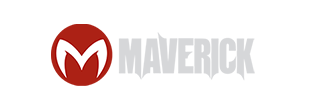
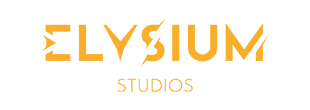
221026 psd

Changed region(s): [[0.1161, 0.1636, 0.871, 0.8455]]

diff --git a/src/components/pages/CSCenterPage.jsx b/src/components/pages/CSCenterPage.jsx
@@ -40,7 +40,7 @@ export default function Test({ isAuthenticated, setAuthenticated }) {
 
     const tabsArray = [
         { text: "문의하기", icon: Icon1, activeIcon: Icon1Active, id: 0, path: "/cscenter/all/contact/all", hasSameParent: true, width: '5rem' },
-        { text: "공지사항", icon: Icon2, activeIcon: Icon2Active, id: 1, path: "/cscenter/all/announcement", width: '5.625rem', marginLeft: '0.2rem' },
+        { text: "공지사항", icon: Icon2, activeIcon: Icon2Active, id: 1, path: "/cscenter/all/announcement", hasSameParent: true, width: '5.625rem', marginLeft: '0.2rem' },
         { text: "자주묻는질문", icon: Icon3, activeIcon: Icon3Active, id: 2, path: "/cscenter/all/faq", hasSameParent: true, width: '5.375rem', marginLeft: '0.2rem' },
         { text: "계좌문의", icon: Icon4, activeIcon: Icon4Active, id: 3, path: "#", width: '5.1875rem', marginLeft: '0.1rem' },
         { text: "베팅규정", icon: Icon5, activeIcon: Icon5Active, id: 4, path: "/cscenter/all/policy/sportsgame/soccer", hasSameParent: true, width: '4.875rem', marginLeft: '0.1rem' },
@@ -147,7 +147,7 @@ export default function Test({ isAuthenticated, setAuthenticated }) {
                                         <HomePageTopBanner pageTitle='고객센터' toPath='/cscenter' />
                                         <div id='container-nav'>
 
-                                            <HorizontalMenu1 withSmallMarginTop={true} itemsArray={tabsArray} setSelectedTab={setSelectedTab} setSelectedSubTab={setSelectedSubTab} />
+                                            <HorizontalMenu1 key={1} withSmallMarginTop={true} itemsArray={tabsArray} setSelectedTab={setSelectedTab} setSelectedSubTab={setSelectedSubTab} />
                                         </div>
                                         <Contact subActiveButton={subActiveButton} setSubActiveButton={setSubActiveButton} />
                                     </>
@@ -164,12 +164,12 @@ export default function Test({ isAuthenticated, setAuthenticated }) {
                                     </>
                                 }
                             />
-                            <Route path="/announcement"
+                            <Route path="/announcement/*"
                                 element={
                                     <>
                                         <HomePageTopBanner pageTitle='고객센터' toPath='/cscenter' />
                                         <div id='container-nav'>
-                                            <HorizontalMenu1 withSmallMarginTop={true} itemsArray={tabsArray} setSelectedTab={setSelectedTab} setSelectedSubTab={setSelectedSubTab} />
+                                            <HorizontalMenu1 key={2} withSmallMarginTop={true} itemsArray={tabsArray} setSelectedTab={setSelectedTab} setSelectedSubTab={setSelectedSubTab} />
                                         </div>
                                         <Announcement setSubActiveButton={setSubActiveButton} />
                                     </>
@@ -211,7 +211,7 @@ export default function Test({ isAuthenticated, setAuthenticated }) {
                                     <>
                                         <HomePageTopBanner pageTitle='고객센터' toPath='/cscenter' />
                                         <div id='container-nav'>
-                                            <HorizontalMenu1 withSmallMarginTop={true} itemsArray={tabsArray} setSelectedTab={setSelectedTab} setSelectedSubTab={setSelectedSubTab} />
+                                            <HorizontalMenu1 key={3} withSmallMarginTop={true} itemsArray={tabsArray} setSelectedTab={setSelectedTab} setSelectedSubTab={setSelectedSubTab} />
                                         </div>
                                         <div style={{ marginBottom: '19.625rem' }}>
                                             <Faq subActiveButton={subActiveButton} setSubActiveButton={setSubActiveButton} />
@@ -224,7 +224,7 @@ export default function Test({ isAuthenticated, setAuthenticated }) {
                                     {/* <img src={img} alt='' style={{ opacity: '0.5', position: 'absolute', top: '0' }} /> */}
                                     <HomePageTopBanner pageTitle='고객센터' toPath='/cscenter' />
                                     <div id='container-nav'>
-                                        <HorizontalMenu1 withSmallMarginTop={true} itemsArray={tabsArray} setSelectedTab={setSelectedTab} setSelectedSubTab={setSelectedSubTab} />
+                                        <HorizontalMenu1 key={4} withSmallMarginTop={true} itemsArray={tabsArray} setSelectedTab={setSelectedTab} setSelectedSubTab={setSelectedSubTab} />
                                     </div>
                                     <SportsGamePolicy setSelectedTab={setSelectedTab} subActiveButton={subActiveButton} setSubActiveButton={setSubActiveButton} />
                                 </>}
@@ -234,7 +234,7 @@ export default function Test({ isAuthenticated, setAuthenticated }) {
                                     <>
                                         <HomePageTopBanner pageTitle='고객센터' toPath='/cscenter' />
                                         <div id='container-nav'>
-                                            <HorizontalMenu1 withSmallMarginTop={true} itemsArray={tabsArray} setSelectedTab={setSelectedTab} setSelectedSubTab={setSelectedSubTab} />
+                                            <HorizontalMenu1 key={5} withSmallMarginTop={true} itemsArray={tabsArray} setSelectedTab={setSelectedTab} setSelectedSubTab={setSelectedSubTab} />
                                         </div>
                                         <MinigamePolicy />
                                     </>

diff --git a/src/components/CardResults/index.jsx b/src/components/CardResults/index.jsx
@@ -141,7 +141,7 @@ const CardResults = ({
                         <div
                             style={{
                                 textShadow: bet === "right" ? "rgb(0 0 0) 0rem 0rem rem;" : "",
-                                paddingRight: team2?.length > 8 ? '0.7rem' : '0.8rem',
+                                paddingRight: team2?.length > 11 ? '0.2rem' : '0.8rem',
                                 paddingLeft: '0.7rem',
                                 display: 'flex', justifyContent: 'space-between', alignItems: 'center',
                                 width: '100%',
@@ -156,7 +156,7 @@ const CardResults = ({
                                 : "border-white from-gray-f9f9f9 via-gray-f9f9f9 to-gray-ebebeb text-gray-r454545 bg-gradient-to-b from-gray-f8f8f8 via-gray-ececec to-gray-dfdfdf"} 
                     pt-px flex items-center justify-between h-full w-full rounded-lg border border-white cursor-pointer pr-3.5`}
                         >
-                            <div className="flex items-center" style={{ width: '9rem', textAlign: 'center' }}>
+                            <div className="flex items-center" style={{ width: hasDown ? '9rem' : '6rem', textAlign: 'center' }}>
                                 <span style={{ fontSize: '2.625rem' }} className="font-roboto tracking-tight">{stat3}</span>
                                 {hasDown && <img style={{ marginLeft: '0.4375rem' }} className="object-contain w-8 h-7" src={DownIcon} alt="" />}
                             </div>
@@ -170,7 +170,7 @@ const CardResults = ({
 
     return (
         <div style={{ borderBottomLeftRadius: withoutRadius ? '' : '0.5rem', borderBottomRightRadius: withoutRadius ? '' : '0.5rem', display: 'flex', alignItems: 'center', height: '8.8rem', padding: '1rem 0.3rem 0.4rem 0.4rem', paddingTop: secondCard ? '0.5rem' : '1rem', marginBottom: secondCard ? '0.05rem' : '', borderTop: secondCard ? '0.1875rem solid #252525' : '', marginTop: secondCard ? '0.5rem' : '' }} className={`flex items-center w-full p-3 pr-0 bg-gray-fefefe shadow-plain11`}>
-            <div className="flex" style={{ display: 'flex', width: width92 ? '92%': '' }} >
+            <div className="flex" style={{ display: 'flex', width: width92 ? '92%' : '' }} >
                 <div style={{
                     background: 'linear-gradient(to top, #2f2d29, #2f2d29 50%, #4f4a41)', padding: '0.1875rem', width: smallCard ? '26.875rem' : '26.875rem', height: '7.4375rem', marginRight: '0.375rem',
                     textShadow: bet === "left" ? "rgb(0 0 0) 0.1rem 0.1rem 0.1rem" : "", borderRadius: '0.6rem',
@@ -208,7 +208,7 @@ const CardResults = ({
                                 overflow: 'hidden',
                                 textOverflow: 'ellipsis',
                             }} className="truncate text-left font-spoqaMedium tracking-tight text-14px mt-1">{shouldTruncate ? truncate(team1, 7, 7) : team1}</span>
-                            <div className="flex items-center" style={{ width: '9rem', textAlign: 'center' }}>
+                            <div className="flex items-center" style={{ width: hasUp ? '8rem' : '6rem', textAlign: 'center', marginRight: '0.1rem' }}>
                                 {hasUp && <img style={{ marginRight: '0.4375rem', width: '2rem', height: '1.75rem' }} className="object-contain w-8 h-7" src={UpIcon} alt="" />}
                                 <span style={{ fontSize: '2.625rem', fontFamily: 'RobotoMedium', marginRight: '0.2rem' }} className="font-roboto tracking-tight text-14px mt-1">{stat1}</span>
                             </div>
@@ -276,7 +276,7 @@ const CardResults = ({
                         <div
                             style={{
                                 textShadow: bet === "right" ? "rgb(0 0 0) 0.1rem 0.1rem 0.1rem;" : "",
-                                paddingRight: team2?.length > 8 ? '0.7rem' : '0.8rem',
+                                paddingRight: team2?.length > 11 ? '0.2rem' : '0.8rem',
                                 paddingLeft: '0.4rem',
                                 display: 'flex', justifyContent: 'space-between', alignItems: 'center',
                                 width: '100%',
@@ -291,7 +291,7 @@ const CardResults = ({
                     pt-px flex items-center justify-between h-full w-full rounded-lg border border-white cursor-pointer pr-3.5`}
                         >
                             <div className="flex items-center" style={{ width: hasDown ? '10rem' : '8rem', textAlign: 'center' }}>
-                                <span style={{ fontSize: '2.625rem', width: '5rem', textAlign: 'center' }} className="font-roboto tracking-tight">{stat3}</span>
+                                <span style={{ fontSize: '2.625rem', width: '6rem', textAlign: 'center' }} className="font-roboto tracking-tight">{stat3}</span>
                                 {hasDown && <img style={{ marginLeft: '0.4375rem', width: '2rem' }} className="object-contain w-8 h-7" src={DownIcon} alt="" />}
                             </div>
                             <span style={{

diff --git a/src/components/Announcement/index.jsx b/src/components/Announcement/index.jsx
@@ -4,11 +4,27 @@ import AnnouncementTable from '../AnnouncementTable'
 import Search from '../Search'
 import NavBottom from '../NavBottom'
 import './_announcementTable.scss'
-import { useNavigate } from 'react-router-dom'
+import { useLocation, useNavigate } from 'react-router-dom';
+import HorizontalSubMenu from '../HorizontalSubMenu'
 
 const Announcement = ({
     setSubActiveButton
 }) => {
+
+
+    const tabsArray = [
+        { text: "전체", id: 0, width: '11.5625rem', path: "/cscenter/all/announcement" },
+        { text: "카지노", id: 1, width: '13.4375rem', path: "/cscenter/all/announcement/live-casino" },
+        { text: "슬롯", id: 2, width: '11.5625rem', path: "/cscenter/all/announcement/slot" },
+        { text: "스포츠", id: 3, width: '13.4375rem', path: "/cscenter/all/announcement/sports" },
+        { text: "호텔카지노", id: 4, width: '18.3125rem', path: "/cscenter/all/announcement/e-sportsa" },
+        { text: "e-스포츠", id: 5, width: '15.3125rem', path: "/cscenter/all/announcement/e-sports" },
+        { text: "미니게임", id: 6, width: '15.3125rem', path: "/cscenter/all/announcement/minigame" },
+        { text: "키론가상게임", width: '20.3125rem', id: 7, path: "/cscenter/all/announcement/ar-game" },
+        { text: "충전/환전", width: '16.3125rem', id: 8, path: "/cscenter/all/announcement/transaction" },
+        { text: "베팅관련", width: '15.3125rem', id: 9, path: "/cscenter/all/announcement/about-betting" },
+        { text: "기타", width: '10.3125rem', id: 10, path: "/cscenter/all/announcement/other" },
+    ];
 
     const inboxArray = [
         {
@@ -97,11 +113,14 @@ const Announcement = ({
         },
 
     ]
+    const location = useLocation();
 
     const [page, setPage] = useState(0)
     const [checkedState, setCheckedState] = useState(
         new Array(inboxArray.length).fill(false)
     );
+    const [, setSelectedTab] = useState(0);
+    const [, setSelectedSubTab] = useState(location.pathname)
     const navigate = useNavigate()
 
     useEffect(() => {
@@ -119,6 +138,17 @@ const Announcement = ({
     return (
         <div>
             <div className="" />
+
+            <div className="w-full flex relative top-0" style={{ position: 'relative' }}>
+                <div style={{ background: "linear-gradient(to right, #ffffff00, #ffffff", width: '3.125rem' }} className="absolute h-full right-0 z-50"></div>
+
+                <div id='scroll-wrapper12' style={{ paddingLeft: '1.875rem', overflowX: 'scroll', display: 'flex', marginTop: '1.08rem' }} className="overflow-x-scroll overflow-y-hidden hide-scrollbar">
+                    <div className=" flex flex-shrink-0 w-full" style={{ overflowX: 'scroll', display: 'flex', flexShrink: '0' }}>
+                        <HorizontalSubMenu key={201} itemsArray={tabsArray} setSelectedTab={setSelectedTab} setSelectedSubTab={setSelectedSubTab} />
+                    </div>
+                </div>
+                <div style={{ height: '88%' }} className="nav-shadow absolute h-full left-0 z-50"></div>
+            </div>
 
             <div style={{ borderRadius: "1em", margin: '1.875rem', marginTop: '0' }} className="shadow-subNavbar overflow-hidden">
                 <div className="flex flex-col w-full announcementTable-container">

diff --git a/src/components/Faq/index.jsx b/src/components/Faq/index.jsx
@@ -44,13 +44,13 @@ const Faq = ({ subActiveButton, setSubActiveButton }) => {
         { text: "카지노", id: 1, width: '13.4375rem', path: "/cscenter/all/faq/live-casino" },
         { text: "슬롯", id: 2, width: '11.5625rem', path: "/cscenter/all/faq/slot" },
         { text: "스포츠", id: 3, width: '13.4375rem', path: "/cscenter/all/faq/sports" },
-        { text: "호텔카지노", id: 10, width: '18.3125rem', path: "/cscenter/all/faq/e-sports1" },
-        { text: "e-스포츠", id: 4, width: '15.3125rem', path: "/cscenter/all/faq/e-sports" },
-        { text: "미니게임", id: 5, width: '15.3125rem', path: "/cscenter/all/faq/minigame" },
-        { text: "키론가상게임", width: '20.3125rem', id: 6, path: "/cscenter/all/faq/ar-game" },
-        { text: "충전/환전", width: '16.3125rem', id: 7, path: "/cscenter/all/faq/transaction" },
-        { text: "베팅관련", width: '15.3125rem', id: 8, path: "/cscenter/all/faq/about-betting" },
-        { text: "기타", width: '10.3125rem', id: 9, path: "/cscenter/all/faq/other" },
+        { text: "호텔카지노", id: 4, width: '18.3125rem', path: "/cscenter/all/faq/e-sports1" },
+        { text: "e-스포츠", id: 5, width: '15.3125rem', path: "/cscenter/all/faq/e-sports" },
+        { text: "미니게임", id: 6, width: '15.3125rem', path: "/cscenter/all/faq/minigame" },
+        { text: "키론가상게임", width: '20.3125rem', id: 7, path: "/cscenter/all/faq/ar-game" },
+        { text: "충전/환전", width: '16.3125rem', id: 8, path: "/cscenter/all/faq/transaction" },
+        { text: "베팅관련", width: '15.3125rem', id: 9, path: "/cscenter/all/faq/about-betting" },
+        { text: "기타", width: '10.3125rem', id: 10, path: "/cscenter/all/faq/other" },
     ];
 
     const location = useLocation();
@@ -206,7 +206,7 @@ const Faq = ({ subActiveButton, setSubActiveButton }) => {
             <div className="w-full flex relative top-0" style={{ position: 'relative' }}>
                 <div style={{ background: "linear-gradient(to right, #ffffff00, #ffffff", width: '3.125rem' }} className="absolute h-full right-0 z-50"></div>
 
-                <div id='scroll-wrapper12' style={{ paddingLeft: '1.875rem', overflowX: 'scroll', display: 'flex', }} className="overflow-x-scroll overflow-y-hidden hide-scrollbar">
+                <div id='scroll-wrapper12' style={{ paddingLeft: '1.875rem', overflowX: 'scroll', display: 'flex', marginTop: '1.08rem' }} className="overflow-x-scroll overflow-y-hidden hide-scrollbar">
                     <div className=" flex flex-shrink-0 w-full" style={{ overflowX: 'scroll', display: 'flex', flexShrink: '0' }}>
                         <HorizontalSubMenu itemsArray={tabsArray2} setSelectedTab={setSelectedTab} setSelectedSubTab={setSelectedSubTab} />
                     </div>

diff --git a/src/components/Contact/index.jsx b/src/components/Contact/index.jsx
@@ -13,13 +13,13 @@ const Contact = ({ subActiveButton, setSubActiveButton }) => {
         { text: "카지노", id: 1, width: '13.4375rem', path: "/cscenter/all/contact/all/live-casino" },
         { text: "슬롯", id: 2, width: '11.5625rem', path: "/cscenter/all/contact/all/slot" },
         { text: "스포츠", id: 3, width: '13.4375rem', path: "/cscenter/all/contact/all/sports" },
-        { text: "호텔카지노", id: 10, width: '18.3125rem', path: "/cscenter/all/contact/all/e-sports1" },
-        { text: "e-스포츠", id: 4, width: '15.3125rem', path: "/cscenter/all/contact/all/e-sports" },
-        { text: "미니게임", id: 5, width: '15.3125rem', path: "/cscenter/all/contact/all/minigame" },
-        { text: "키론가상게임", width: '20.3125rem', id: 6, path: "/cscenter/all/contact/all/ar-game" },
-        { text: "충전/환전", width: '16.3125rem', id: 7, path: "/cscenter/all/contact/all/transaction" },
-        { text: "베팅관련", width: '15.3125rem', id: 8, path: "/cscenter/all/contact/all/about-betting" },
-        { text: "기타", width: '10.3125rem', id: 9, path: "/cscenter/all/contact/all/other" },
+        { text: "호텔카지노", id: 4, width: '18.3125rem', path: "/cscenter/all/contact/all/e-sports1" },
+        { text: "e-스포츠", id: 5, width: '15.3125rem', path: "/cscenter/all/contact/all/e-sports" },
+        { text: "미니게임", id: 6, width: '15.3125rem', path: "/cscenter/all/contact/all/minigame" },
+        { text: "키론가상게임", width: '20.3125rem', id: 7, path: "/cscenter/all/contact/all/ar-game" },
+        { text: "충전/환전", width: '16.3125rem', id: 8, path: "/cscenter/all/contact/all/transaction" },
+        { text: "베팅관련", width: '15.3125rem', id: 9, path: "/cscenter/all/contact/all/about-betting" },
+        { text: "기타", width: '10.3125rem', id: 10, path: "/cscenter/all/contact/all/other" },
     ];
 
     const inboxArray = [
@@ -139,7 +139,7 @@ const Contact = ({ subActiveButton, setSubActiveButton }) => {
 
                 <div id='scroll-wrapper12' style={{ paddingLeft: '1.875rem', overflowX: 'scroll', display: 'flex', }} className="overflow-x-scroll overflow-y-hidden hide-scrollbar">
                     <div className=" flex flex-shrink-0 w-full" style={{ overflowX: 'scroll', display: 'flex', flexShrink: '0' }}>
-                        <HorizontalSubMenu itemsArray={tabsArray} setSelectedTab={setSelectedTab} setSelectedSubTab={setSelectedSubTab} />
+                        <HorizontalSubMenu key={40} itemsArray={tabsArray} setSelectedTab={setSelectedTab} setSelectedSubTab={setSelectedSubTab} />
                     </div>
                 </div>
                 <div style={{ height: '88%' }} className="nav-shadow absolute h-full left-0 z-50"></div>

diff --git a/src/components/MoneyCharge/index.jsx b/src/components/MoneyCharge/index.jsx
@@ -48,11 +48,11 @@ const MoneyCharge = ({ subActiveButton, setSubActiveButton }) => {
                 title='확인 / 필독사항'
                 message1='입금 시 반드시 회원님의 성함으로 입금 바랍니다.'
                 isFirstMessageDark
-                message2='입금이 지연될 수 있으니 은행 점검 시간을 확인하신 후 &nbsp; &nbsp; &nbsp; &nbsp; &nbsp;점검 시간을 피해 신청해 주시기 바랍니다.'
+                message2='입금이 지연될 수 있으니 은행 점검 시간을 확인하신 후 &nbsp; &nbsp; &nbsp; &nbsp; &nbsp; 점검 시간을 피해 신청해 주시기 바랍니다.'
                 mr2='11rem'
                 message3='입금계좌는 수시로 변경되오니 &nbsp;반드시 계좌번호 문의 신청을 &nbsp; &nbsp; &nbsp; &nbsp; &nbsp; 통해 계좌번호를 확인 후 입금하여 주시기 바랍니다.'
                 mr3='4.875rem'
-                message4='자세한 문의사항은 고객센터를 이용해 주시기 바랍니다.'
+                message4='&nbsp;자세한 문의사항은 고객센터를 이용해 주시기 바랍니다.'
             />
 
             <div style={{
@@ -638,7 +638,7 @@ const MoneyCharge = ({ subActiveButton, setSubActiveButton }) => {
                     className="hover"
                 >
                     <div style={{ borderColor: "#ff8f63" }} className="w-full h-full flex items-center justify-center rounded-2xl border border-blue-r3ba3fc bg-gradient-to-b from-orange-ff7a45 via-orange-f56032 to-orange-e9441d cursor-pointer">
-                        <span style={{ fontSize: '2.8125rem', color: '#ffffff', display: 'inline-block', fontFamily: 'SpoqaHanSansNeoMedium', letterSpacing: '-0.07rem', marginTop: '0.5rem', marginLeft: '0.2rem' }} className=''>신청하기</span>
+                        <span style={{ fontSize: '2.8125rem', color: '#d6f3ff', display: 'inline-block', fontFamily: 'SpoqaHanSansNeoMedium', letterSpacing: '-0.07rem', marginTop: '0.5rem', marginLeft: '0.2rem' }} className=''>신청하기</span>
                     </div>
                 </button>
             </div>

diff --git a/src/components/MoneyExchange/index.jsx b/src/components/MoneyExchange/index.jsx
@@ -41,8 +41,8 @@ const MoneyExchange = ({ subActiveButton, setSubActiveButton }) => {
 
             <WarningMessage
                 title='확인 / 필독사항'
-                message1='환전 신청 시 현재 보유머니에서 차감되며, 회원님의 계좌번호로 입금됩니다.'
-                message2='입금이 지연될 수 있으니 은행 점검 시간을 확인하신 후 점검 시간을 피해 신청해 주시기 바랍니다.'
+                message1='환전 신청 시 현재 보유머니에서 차감되며, 회원님의 &nbsp; &nbsp; &nbsp; &nbsp; &nbsp;계좌번호로 입금됩니다.'
+                message2='입금이 지연될 수 있으니 은행 점검 시간을 확인하신 후 점검 &nbsp; &nbsp; &nbsp;시간을 피해 신청해 주시기 바랍니다.'
                 mr2='7.8rem'
                 message3='자세한 문의사항은 고객센터를 이용해 주시기 바랍니다.'
             />
@@ -404,7 +404,7 @@ const MoneyExchange = ({ subActiveButton, setSubActiveButton }) => {
                     className="hover"
                 >
                     <div style={{ borderColor: "#ff8f63" }} className="w-full h-full flex items-center justify-center rounded-2xl border border-blue-r3ba3fc bg-gradient-to-b from-orange-ff7a45 via-orange-f56032 to-orange-e9441d cursor-pointer">
-                        <span style={{ fontSize: '2.8125rem', color: '#ffdfbd', display: 'inline-block', fontFamily: 'SpoqaHanSansNeoMedium', letterSpacing: '-0.07rem', marginTop: '0.5rem', marginLeft: '0.2rem' }} className='shadow-to-text'>신청하기</span>
+                        <span style={{ fontSize: '2.8125rem', color: '#d6f3ff', display: 'inline-block', fontFamily: 'SpoqaHanSansNeoMedium', letterSpacing: '-0.07rem', marginTop: '0.5rem', marginLeft: '0.2rem' }} className='shadow-to-text'>신청하기</span>
                     </div>
                 </button>
             </div>

diff --git a/src/components/WarningMessage/index.jsx b/src/components/WarningMessage/index.jsx
@@ -11,10 +11,10 @@ const WarningMessage = ({ title, message1, mr1 = '', mr2 = '', mr3 = '', mr4 = '
                 <span>{title}</span>
             </div>
             <div className="alert-messages">
-                {message1 && <span style={{ color: isFirstMessageDark ? "#ffdfbd" : '#ffdfbd', marginRight: mr1 }} className="first-span"><span className='correct'>✓</span>  {message1}</span>}
-                {message2 && <span style={{ marginRight: mr2 }} className="second-span"><span className='correct'>✓</span> <span>{parse(message2)}</span></span>}
-                {message3 && <span style={{ marginRight: mr3 }} className="third-span"><span className='correct'>✓</span>  <span>{parse(message3)}</span></span>}
-                {message4 && <span style={{ marginRight: mr4 }} className="forth-span"><span className='correct' >✓</span>  {message4}</span>}
+                {message1 && <span style={{ color: isFirstMessageDark ? "#ffdfbd" : '#ffdfbd', marginRight: mr1 }} className="first-span"><span className='correct'>✓</span>{message1}</span>}
+                {message2 && <span style={{ marginRight: mr2 }} className="second-span"><span className='correct'>✓</span><span>{parse(message2)}</span></span>}
+                {message3 && <span style={{ marginRight: mr3 }} className="third-span"><span className='correct'>✓</span><span>{parse(message3)}</span></span>}
+                {message4 && <span style={{ marginRight: mr4 }} className="forth-span"><span className='correct' >✓</span>{message4}</span>}
             </div>
         </div>
     )

diff --git a/src/components/SlotBetHistory/index.jsx b/src/components/SlotBetHistory/index.jsx
@@ -25,6 +25,7 @@ import Icon19 from '../../assets/slotGame/19.png'
 import Icon20 from '../../assets/slotGame/20.png'
 import Icon21 from '../../assets/slotGame/21.png'
 import Icon22 from '../../assets/slotGame/22.png'
+import Icon23 from '../../assets/slotGame/23.png'
 import HorizontalSubMenu from '../HorizontalSubMenuDefault'
 import { useNavigate } from 'react-router-dom'
 // import Icon16 from '../../assets/slotGame/17.png'
@@ -45,7 +46,7 @@ const subTabsArray = [
     { text: "스페이드", icon: Icon9, id: 9, width: '19.375rem', path: '#' },
     { text: "하바네로", icon: Icon10, id: 10, width: '19.375rem', path: '#' },
     { text: "월드매치", icon: Icon11, id: 11, width: '19.375rem', path: '#' },
-    { text: "메버릭", icon: Icon12, id: 12, width: '19.375rem', path: '#' },
+    { text: "엘리시움", icon: Icon12, id: 12, width: '19.375rem', path: '#' },
     { text: "플레이앤고", icon: Icon13, id: 13, width: '19.375rem', path: '#' },
     { text: "YL게이밍", icon: Icon14, id: 14, width: '19.375rem', path: '#' },
     { text: "레드타이거", icon: Icon15, id: 15, width: '19.375rem', path: '#' },
@@ -55,6 +56,7 @@ const subTabsArray = [
     { text: "올웨이스핀", icon: Icon20, id: 19, width: '19.375rem', path: '#' },
     { text: "와즈단", icon: Icon21, id: 20, width: '19.375rem', path: '#' },
     { text: "PG소프트", icon: Icon22, id: 21, width: '19.375rem', path: '#' },
+    { text: "로얄슬롯게이밍", icon: Icon23, id: 22, width: '19.375rem', path: '#' },
 
 ];
 

diff --git a/src/components/WarningMessage/_warningMessage.scss b/src/components/WarningMessage/_warningMessage.scss
@@ -40,7 +40,7 @@
             margin-right: 13.5rem;
 
             span {
-                margin-right: 0.3rem;
+                margin-right: 0.8rem;
                 margin-left: 0.2rem;
             }
         }
@@ -53,7 +53,7 @@
             line-height: 1.37;
 
             span {
-                margin-right: 0.3rem;
+                margin-right: 0.6rem;
                 margin-left: 0.2rem;
             }
         }
@@ -65,7 +65,7 @@
             line-height: 1.3;
 
             span {
-                margin-right: 0.3rem;
+                margin-right: 0.6rem;
                 margin-left: 0.2rem;
             }
         }
@@ -74,7 +74,9 @@
             color: #ccc2b6;
             font-size: 2.625rem;
 
-            margin-top: 1.6rem span {
+            margin-top: 1.6rem;
+
+            span {
                 margin-right: 0.3rem;
                 margin-left: 0.2rem;
             }

diff --git a/src/components/MoneyExchangePage/index.jsx b/src/components/MoneyExchangePage/index.jsx
@@ -107,7 +107,7 @@ const MoneyExchangePage = ({ isAuthenticated, setAuthenticated, subActiveButton,
 
                             <div className="flex flex-col items-start limit:items-center w-full h-full">
 
-                                <div style={{ padding: '1.875rem 1rem', paddingBottom: '1.875rem' }} className="w-full relative top-0">
+                                <div className="w-full relative top-0">
                                     <div className="overflow-x-scroll overflow-y-hidden hide-scrollbar">
                                         <div className=" flex flex-shrink-0 w-full"  id='container-nav'>
                                             <HorizontalMenu1 itemsArray={tabsArray} setSelectedTab={setSelectedTab} setSelectedSubTab={setSelectedSubTab} isMoneyPage='true' />

diff --git a/src/components/GameResultsPage/_gameResultPage.scss b/src/components/GameResultsPage/_gameResultPage.scss
@@ -1,6 +1,6 @@
 .game-result {
     #container-nav {
-        padding: 0px 1.4rem;
+        padding: 0px 1.1rem;
         margin-top: 0.1rem;
 
         button {
@@ -11,6 +11,10 @@
                 margin-right: -0.25rem;
             }
         }
+    }
+
+    .HorizontalMenu {
+        margin-left: 0.5rem !important;
     }
 
     #container {
@@ -35,6 +39,12 @@
             border-radius: 3.2rem;
             font-family: "SpoqaHanSansNeoMedium";
         }
+    }
+
+    #container {
+        // margin: 0;
+        // margin-left: 0 !important;
+        // margin-right: 0 !important;
     }
 
     #scroll-wrapper {
